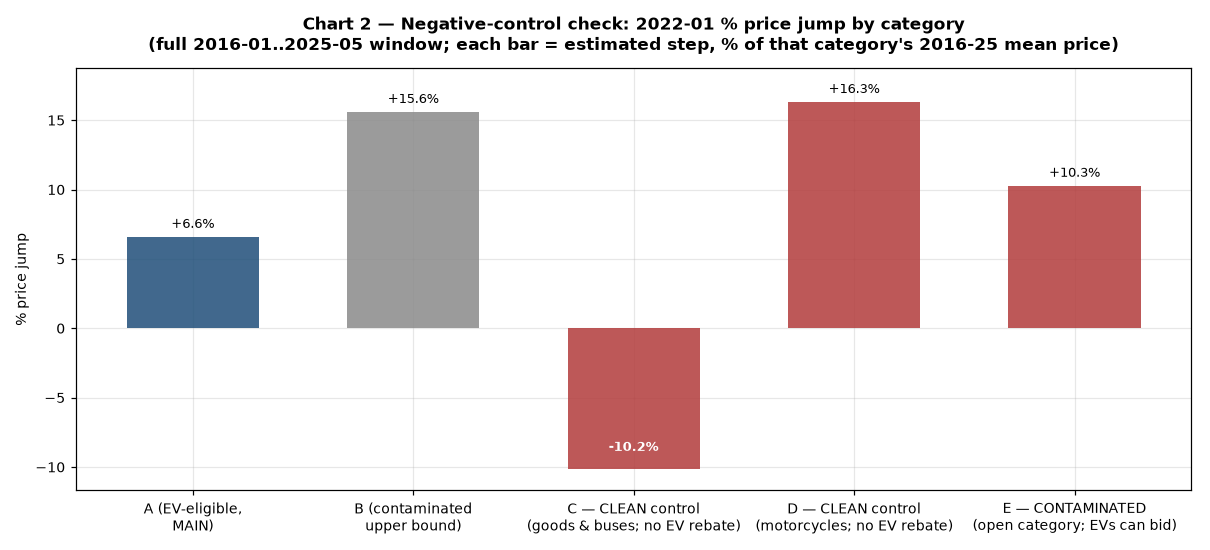
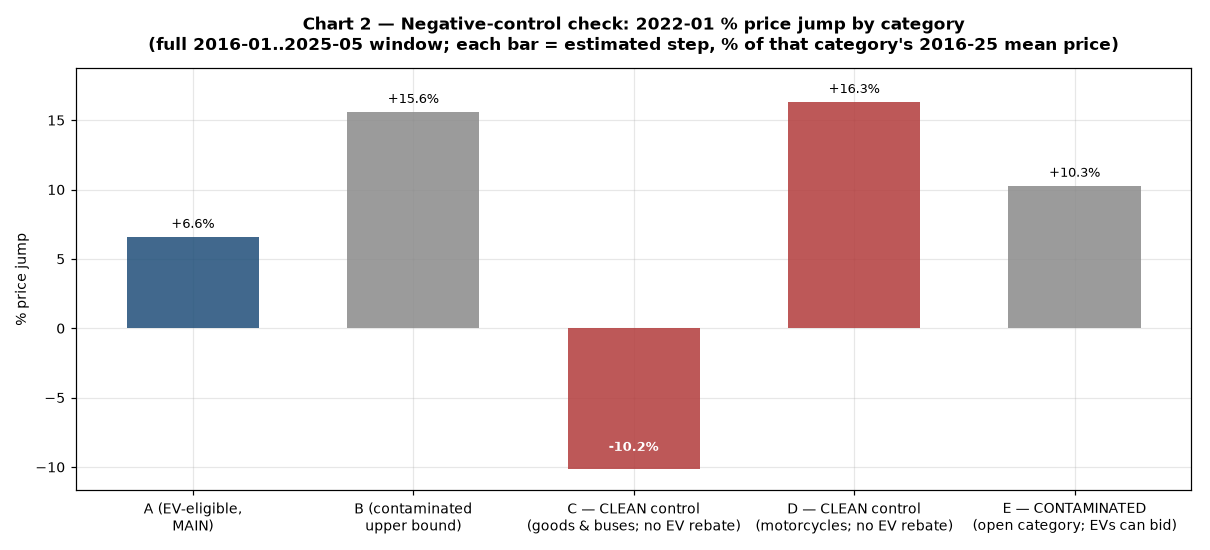
Figures 2+3: role-based bar colours, clearer Fig 3 title
- B and E are both EV-contaminated, so they now share one colour
  (gray); C and D (clean) share red; A stays blue (main)
- Figure 3 title renamed from 'EEAI cap-cut step' to '2024-01 %
  price jump by category' (consistent with Figure 2); subtitle
  states the rebate cut shows up as a price drop, explaining the
  negative bars; split onto two lines so it fits the frame
- README Figure 3 caption/alt text updated to match
- verify: 9/9 pass

Changed region(s): [[0.8256, 0.34, 0.9479, 0.6182]]

diff --git a/src/13_charts.py b/src/13_charts.py
@@ -184,7 +184,8 @@ def _nc_panel(ax, nc: pd.DataFrame, term: str) -> None:
             and str(r.spec) == "dummy"]
     cats = [r.category for r in rows]
     pcts = [r.coef_pct_of_mean for r in rows]
-    colours = ["#1f4e79", "#8a8a8a", "#b23b3b", "#b23b3b", "#b23b3b"]
+    # role -> colour: A main (blue), C+D clean (red), B+E contaminated (gray)
+    colours = ["#1f4e79", "#8a8a8a", "#b23b3b", "#b23b3b", "#8a8a8a"]
     labels = [
         "A (EV-eligible,\nMAIN)", "B (contaminated\nupper bound)",
         "C — CLEAN control\n(goods & buses; no EV rebate)",
@@ -239,7 +240,7 @@ def chart02() -> None:
 
 
 # ===========================================================================
-# Chart 3 — negative-control check: 2024-01 EEAI cap-cut step by category
+# Chart 3 — negative-control check: 2024-01 % price jump by category
 #            (2022+ EV era scope).
 # ===========================================================================
 def chart03() -> None:
@@ -252,9 +253,10 @@ def chart03() -> None:
     _nc_panel(ax, pd.read_csv(TABLES / "negative_controls.csv"),
               "reg_eeai_cap15k_202401")
     ax.set_title(
-        "Chart 3 — Negative-control check: 2024-01 EEAI cap-cut step by "
-        "category\n(2022-01..2025-05 EV-era window; each bar = estimated step, "
-        "% of that category's 2022-25 mean price)",
+        "Chart 3 — Negative-control check: 2024-01 % price jump by category\n"
+        "(2022-01..2025-05 EV-era window; the 2024-01 rebate cut "
+        "S$45k → S$40k shows up as a price drop)\n"
+        "(each bar = estimated step, % of that category's 2022-25 mean price)",
         pad=12,
     )
     fig.tight_layout()

diff --git a/README.md b/README.md
@@ -150,13 +150,13 @@ within it, so the statistics have something to work with. In that window:
   much rebates raise prices".
 
 **Figure 3.** The negative-control test for the 2024 rebate cut: estimated
-2024-01 % price step by car category, each measured over the 2022–2025
-window.
+2024-01 % price jump by car category (the rebate cut shows up as a price
+drop), each measured over the 2022–2025 window.
 
-![Negative-control check: 2024-01 EEAI cap-cut step by car category (2022+ EV era)](charts/03_negative_control_2024.png)
+![Negative-control check: 2024-01 % price jump by car category (2022+ EV era; the 2024-01 rebate cut shows up as a price drop)](charts/03_negative_control_2024.png)
 
-*The 2024 cap cut moves the EV-eligible car channels (A, B, and the open
-category E, where EV cars can bid) by ~23–37%, while the two rebate-free
+*The 2024 cap cut drops prices in the EV-eligible car channels (A, B, and the
+open category E, where EV cars can bid) by ~23–37%, while the two rebate-free
 categories (C goods, D motorcycles) move only ~7–8%.*
 
 ### 3. Rebates did not make more people bid
